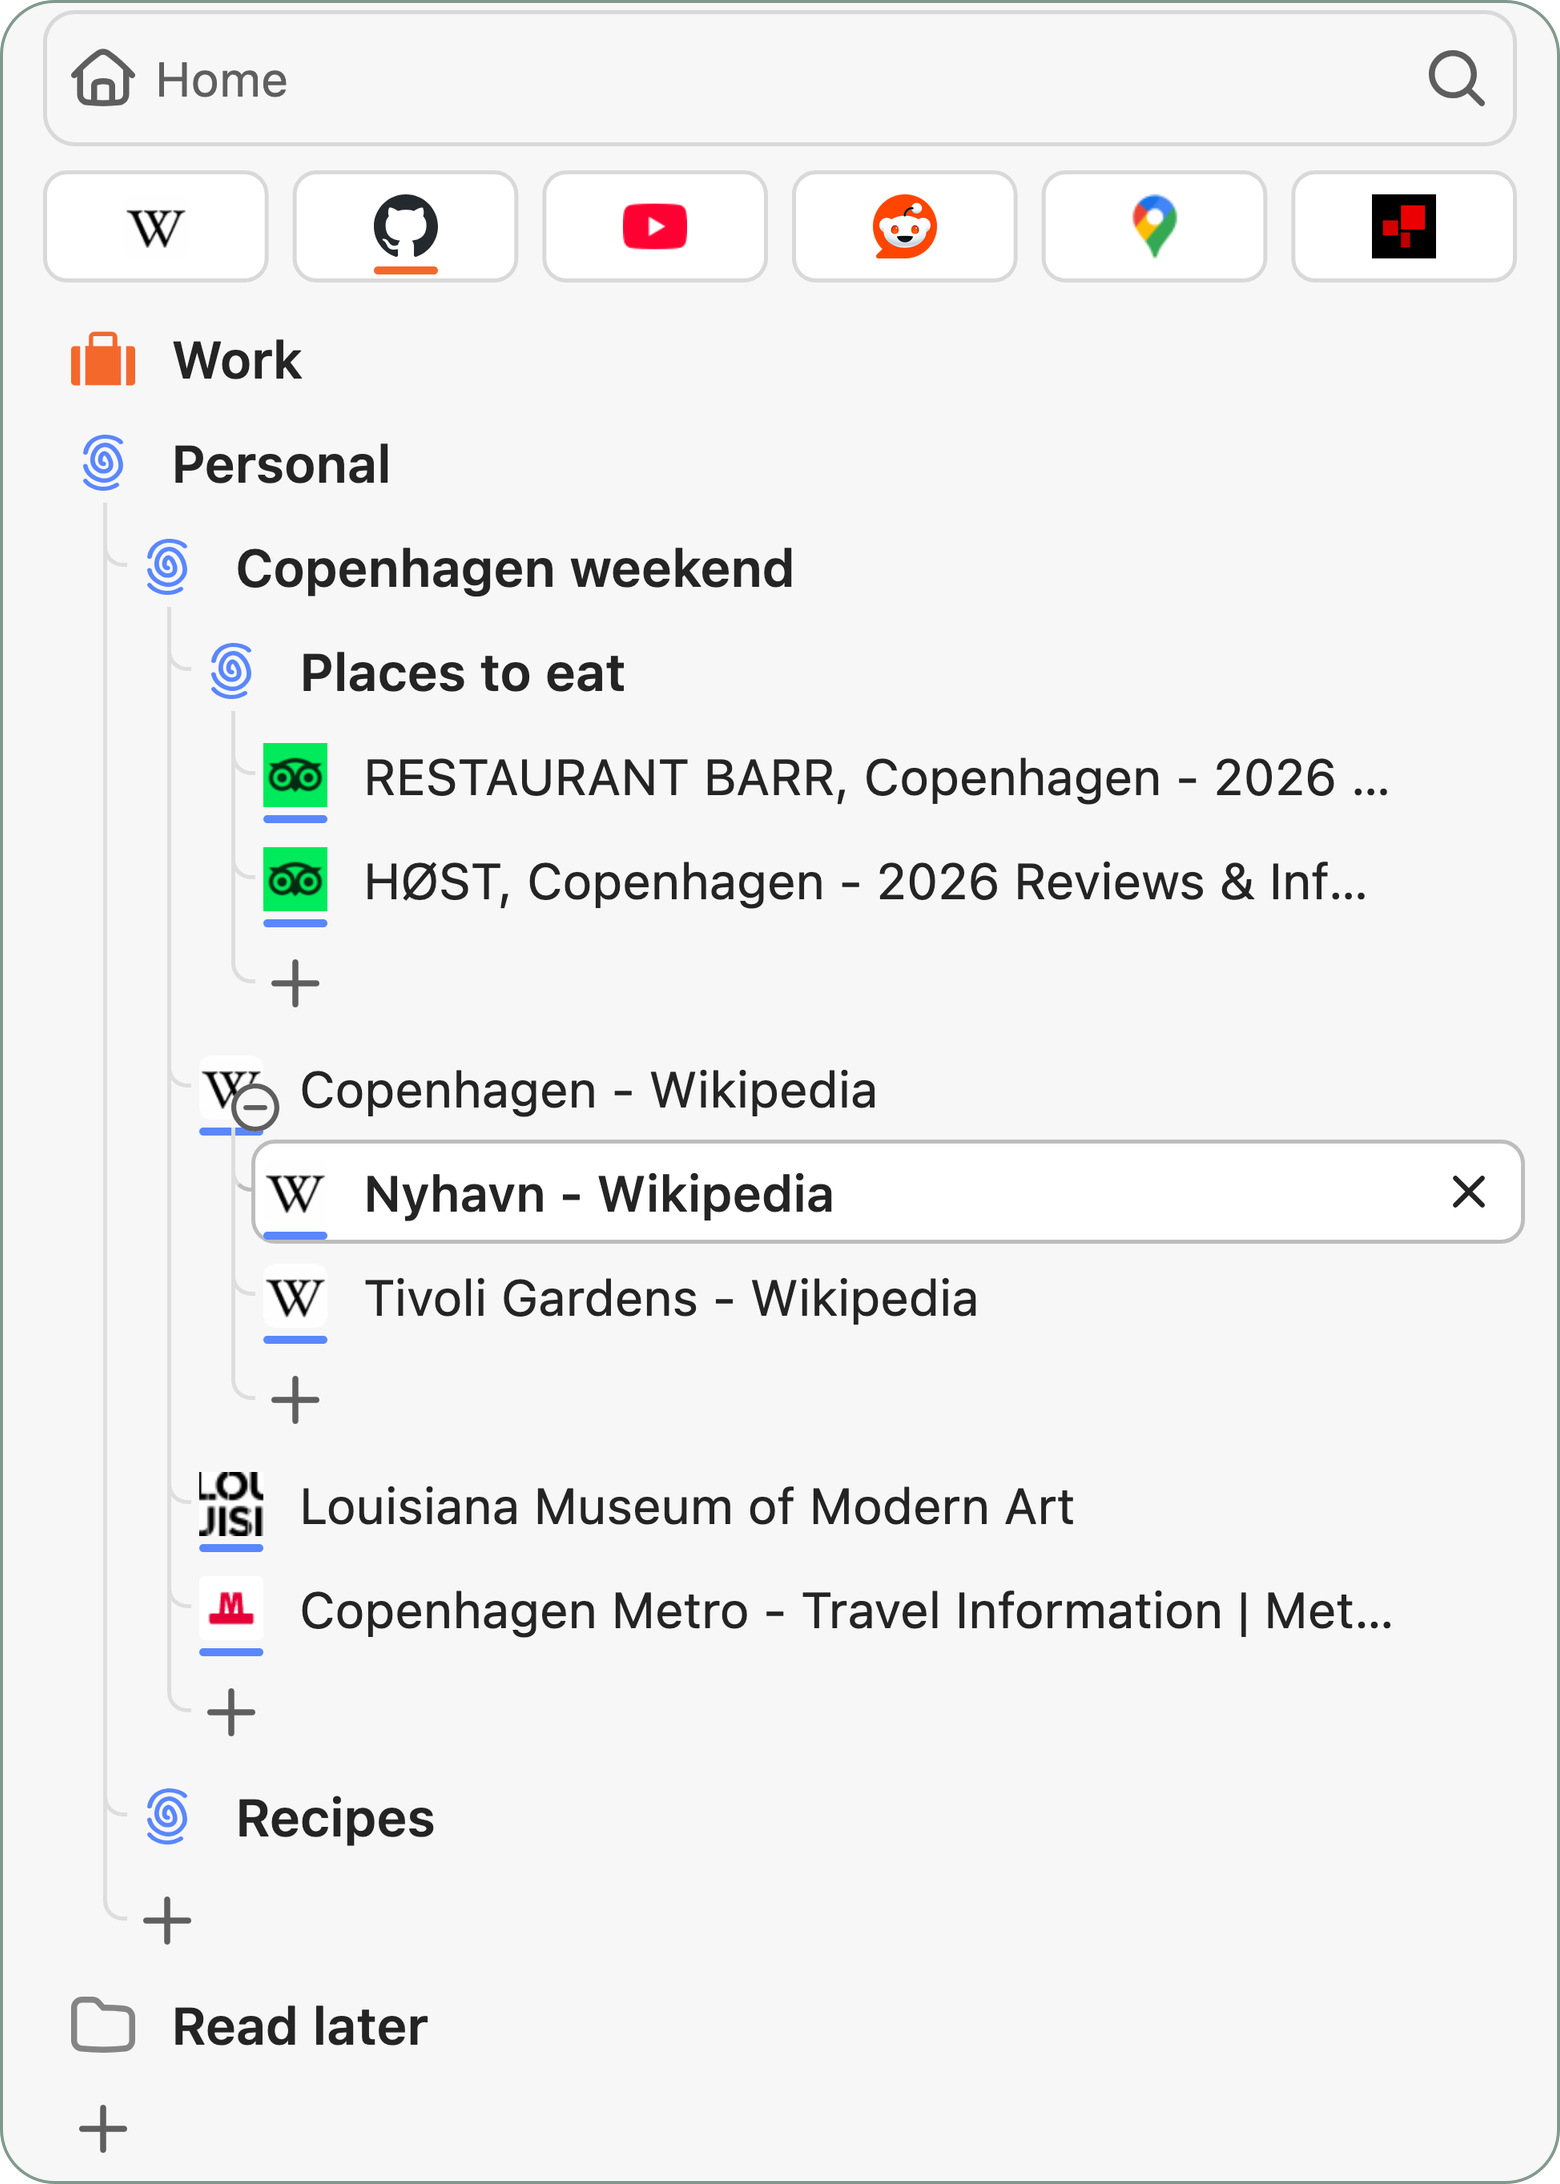
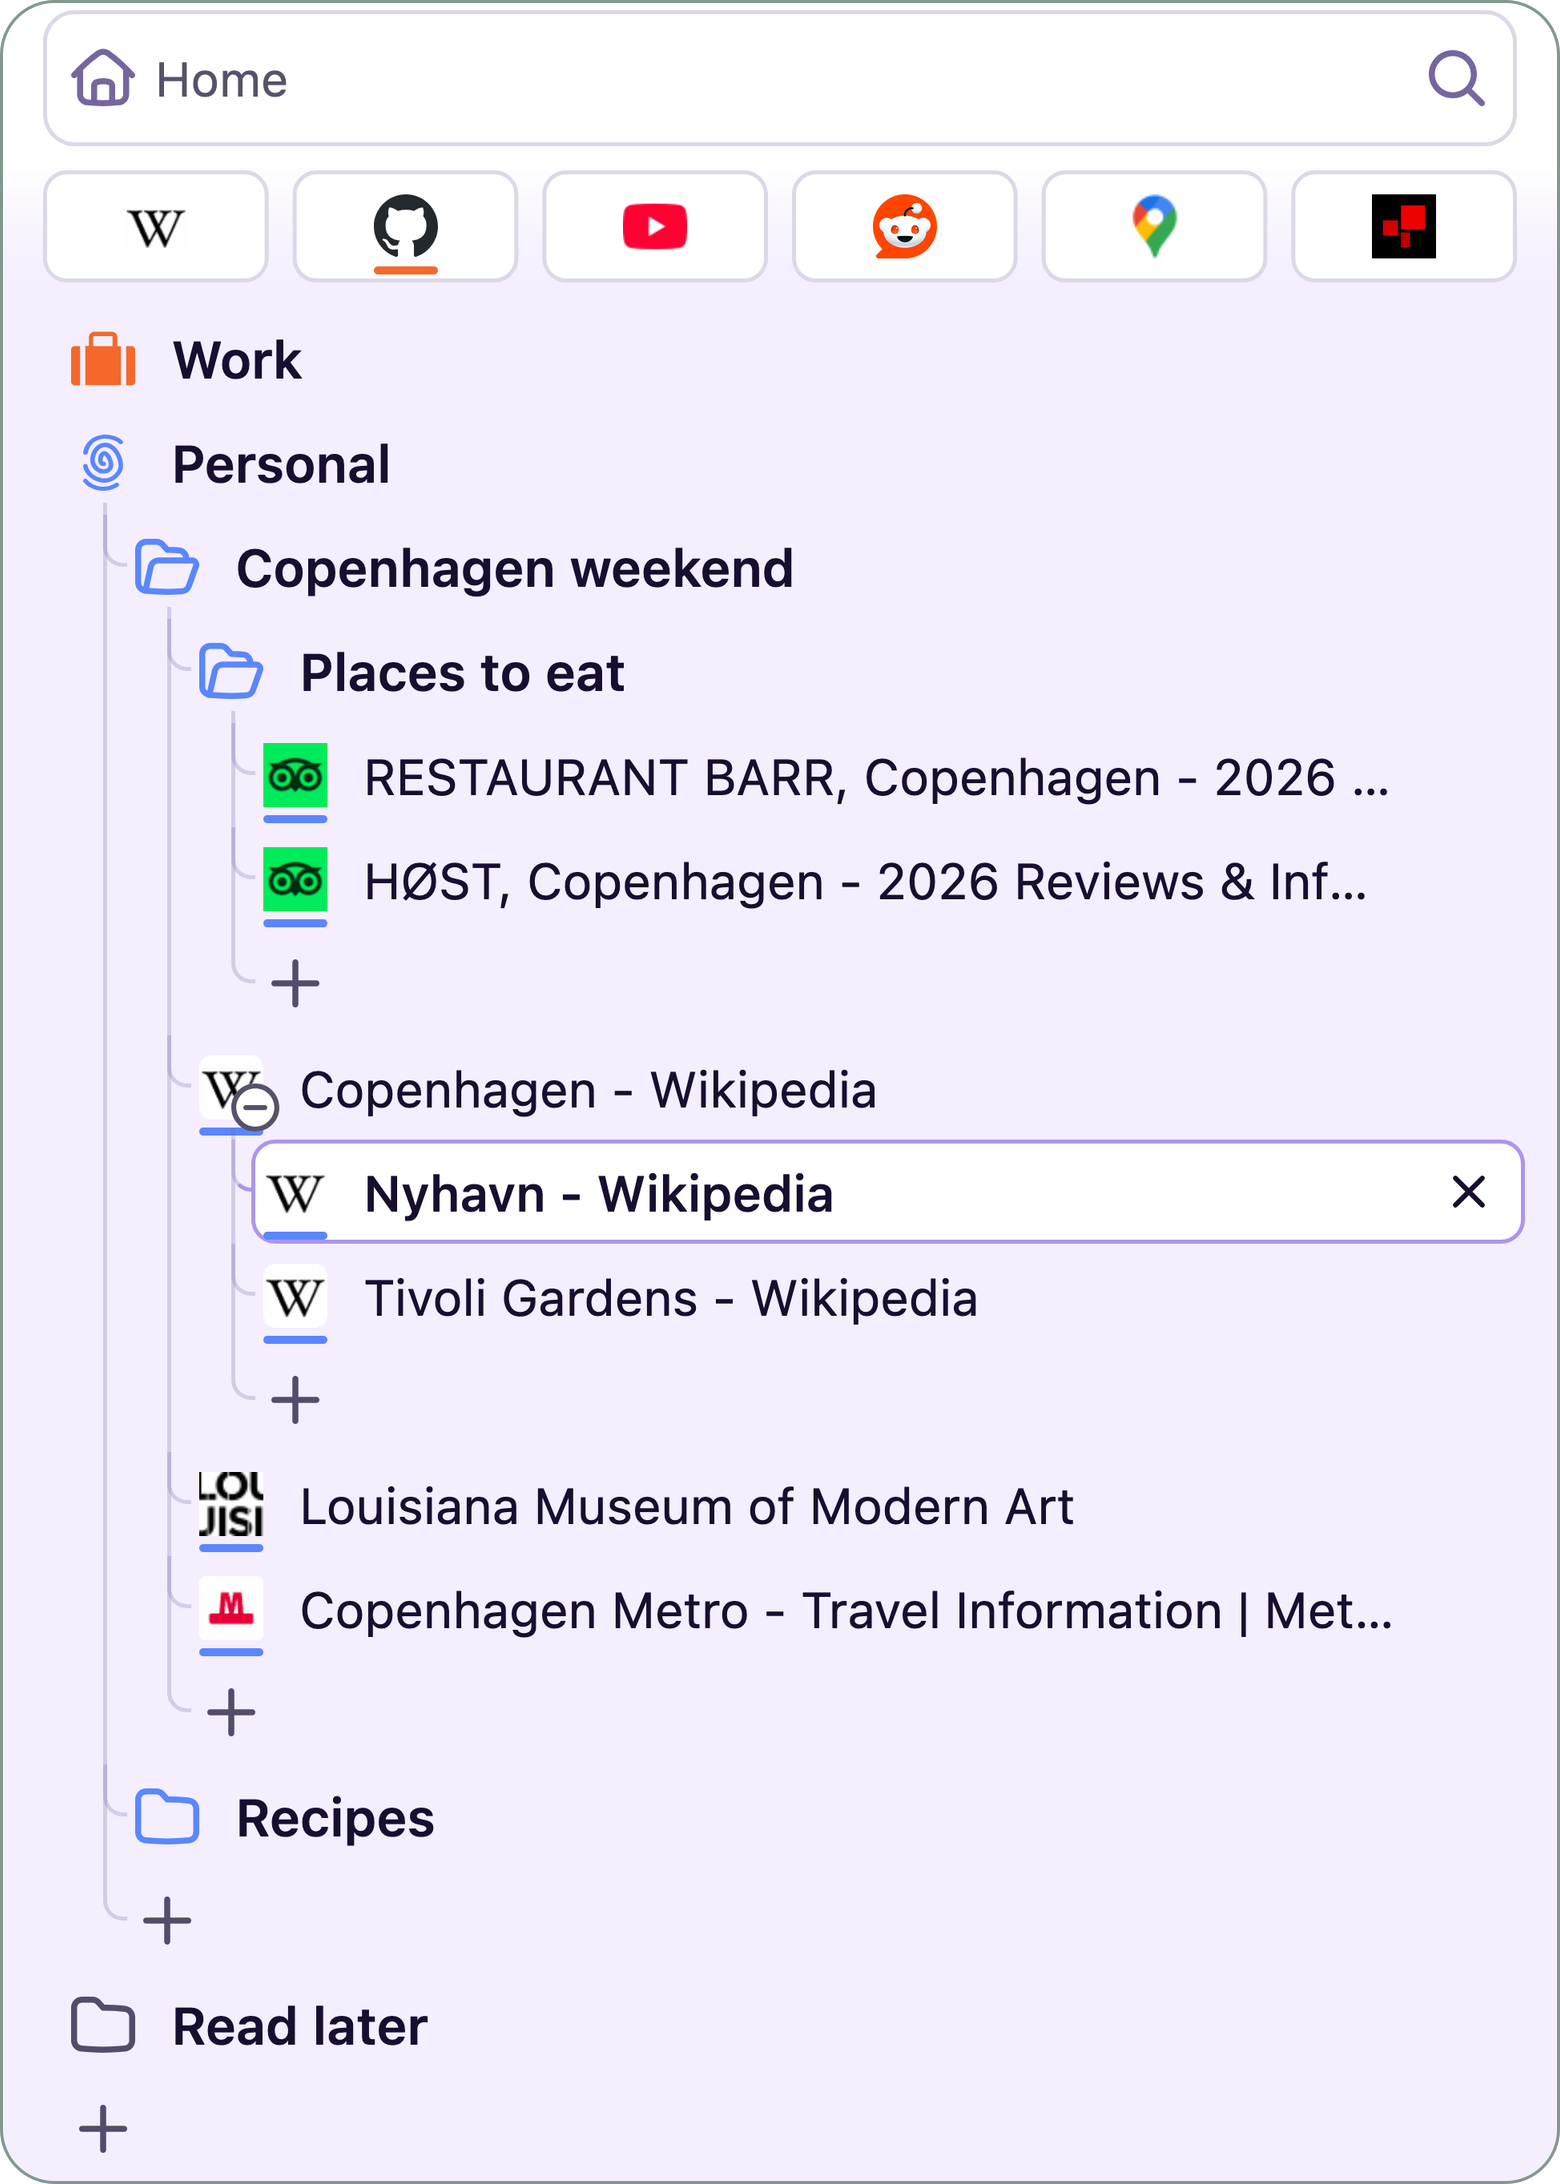
Refresh screenshots and add recent activity

diff --git a/scripts/screenshot-scenes.js b/scripts/screenshot-scenes.js
@@ -98,8 +98,8 @@ export async function setupScreenshotDemo(
     value: {
       connectingLines: true,
       domains: false,
-      themeSource: 'tabernacle',
-      colorScheme: 'light',
+      themeSource: 'firefox',
+      colorScheme: 'default',
     },
   });
   await send('enterGroup', { id: null });
@@ -118,6 +118,7 @@ export async function setupScreenshotDemo(
 
 // Runs in the real extension document through Firefox's in-process DevTools API.
 export async function showScreenshotScene(fixture, session, index) {
+  globalThis.tabernacleScreenshotRestoreActivityTimes?.();
   const shot = fixture.shots[index];
   const windowId = (await browser.windows.getCurrent()).id;
 
@@ -140,6 +141,8 @@ export async function showScreenshotScene(fixture, session, index) {
   };
 
   if (document.querySelector('#dialog').open) document.querySelector('#dialog-cancel').click();
+  if (document.querySelector('#recently-closed-toggle').getAttribute('aria-expanded') === 'true')
+    document.querySelector('#recently-closed-toggle').click();
   if (document.querySelector('#search-toggle').getAttribute('aria-expanded') === 'true')
     document.querySelector('#search-close').click();
   const scopeId = session.groups[shot.scope] || null;
@@ -148,8 +151,8 @@ export async function showScreenshotScene(fixture, session, index) {
     value: {
       connectingLines: true,
       domains: Boolean(shot.domains),
-      themeSource: 'tabernacle',
-      colorScheme: shot.colorScheme,
+      themeSource: 'firefox',
+      colorScheme: 'default',
     },
   });
   const state = await send('snapshot');
@@ -163,6 +166,7 @@ export async function showScreenshotScene(fixture, session, index) {
   await waitFor(
     () =>
       document.querySelector(`[data-key="tab:${session.tabs[fixture.activeTab]}"]`) &&
+      document.documentElement.dataset.firefoxTheme === 'default' &&
       document.documentElement.dataset.colorScheme === shot.colorScheme &&
       Boolean(document.querySelector('#home[aria-current]')) === !scopeId,
     'the sidebar scene',
@@ -189,11 +193,87 @@ export async function showScreenshotScene(fixture, session, index) {
     button.click();
     await waitFor(() => document.querySelector('#dialog').open, 'the folder dialog');
   }
+  if (shot.activity) {
+    // Generate history through real actions in this demo session. Run this scene
+    // after the tree captures, since closed demo tabs stay closed.
+    for (const { kind, key } of shot.activity) {
+      if (kind === 'folder') await send('enterGroup', { id: session.groups[key] });
+      else if (kind === 'viewed') await browser.tabs.update(session.tabs[key], { active: true });
+      else if (kind === 'closed') await browser.tabs.remove(session.tabs[key]);
+      else throw new Error(`Unsupported screenshot activity: ${kind}`);
+      // Keep Firefox session timestamps distinct and their ordering repeatable.
+      await new Promise((resolve) => setTimeout(resolve, 100));
+    }
+    if (shot.activityMinutesAgo) {
+      // Fixture only the ages of these real demo records at the API boundary.
+      // The unchanged popup sorts the records and formats its own time labels.
+      const now = Date.now();
+      const ages = shot.activityMinutesAgo;
+      const timestamp = (kind, key, fallback = 120) =>
+        now - (ages[kind]?.[key] ?? fallback) * 60000;
+      const tabKeys = new Map(Object.entries(session.tabs).map(([key, id]) => [id, key]));
+      const groupKeys = new Map(Object.entries(session.groups).map(([key, id]) => [id, key]));
+      const urlKeys = new Map(fixture.tabs.map(({ key, url }) => [url, key]));
+      const originalSend = browser.runtime.sendMessage;
+      browser.runtime.sendMessage = async (...args) => {
+        const result = await originalSend.apply(browser.runtime, args);
+        const data = result?.ok && result.data;
+        if (data?.tabs && data.view) {
+          for (const tab of data.tabs) tab.lastAccessed = timestamp('viewed', tabKeys.get(tab.id));
+          for (const tab of data.recentlyClosed ?? [])
+            tab.closedAt = timestamp('closed', urlKeys.get(tab.url));
+          for (const folder of data.view.recentFolders ?? [])
+            folder.enteredAt = timestamp('folder', groupKeys.get(folder.id));
+          for (const folder of data.view.recentExpandedFolders ?? [])
+            folder.expandedAt = timestamp('folder', groupKeys.get(folder.id));
+        }
+        return result;
+      };
+      globalThis.tabernacleScreenshotRestoreActivityTimes = () => {
+        browser.runtime.sendMessage = originalSend;
+        delete globalThis.tabernacleScreenshotRestoreActivityTimes;
+      };
+    }
+    document.querySelector('#recently-closed-toggle').click();
+    await waitFor(() => {
+      const rows = [...document.querySelectorAll('.recently-closed-row')].slice(0, 10);
+      return (
+        !document.querySelector('#recently-closed').hidden &&
+        rows.length === 10 &&
+        (!shot.activityMinutesAgo ||
+          new Set(rows.map((row) => row.querySelector('time').textContent)).size >= 4) &&
+        ['viewed', 'closed', 'folder'].every((kind) =>
+          rows.some((row) => row.dataset.kind === kind),
+        )
+      );
+    }, 'viewed tabs, closed tabs and folders in recent activity');
+    document.activeElement.blur();
+  }
   document.querySelector('#tree').scrollTop = 0;
   await document.fonts.ready;
   await Promise.all([...document.querySelectorAll('img')].map((image) => image.decode()));
   await new Promise((resolve) => requestAnimationFrame(() => requestAnimationFrame(resolve)));
-  return { scene: shot.file, width: innerWidth, height: innerHeight };
+  const surface = getComputedStyle(document.querySelector('.sidebar'));
+  return {
+    scene: shot.file,
+    width: innerWidth,
+    height: innerHeight,
+    theme: document.documentElement.dataset.firefoxTheme,
+    colorScheme: document.documentElement.dataset.colorScheme,
+    background: surface.backgroundColor,
+    gradient: surface.backgroundImage,
+    ...(shot.activity
+      ? {
+          activity: [...document.querySelectorAll('.recently-closed-row')]
+            .slice(0, 10)
+            .map((row) => ({
+              kind: row.dataset.kind,
+              title: row.querySelector('.recently-closed-label').textContent,
+              time: row.querySelector('time').textContent,
+            })),
+        }
+      : {}),
+  };
 }
 
 export function measureScreenshotRegion(framing) {

diff --git a/scripts/screenshot-browser.js b/scripts/screenshot-browser.js
@@ -19,9 +19,11 @@ export class ScreenshotBrowser {
     else if (process.platform === 'darwin')
       options.setBinary('/Applications/Firefox.app/Contents/MacOS/firefox');
     options.setPreference('browser.shell.checkDefaultBrowser', false);
+    options.setPreference('browser.nova.enabled', true);
     options.setPreference('browser.startup.page', 0);
     options.setPreference('browser.tabs.warnOnClose', false);
     options.setPreference('ui.prefersReducedMotion', 1);
+    options.setPreference('ui.systemUsesDarkTheme', 0);
     options.setPreference('layout.css.prefers-color-scheme.content-override', 1);
     const binary = process.env.GECKODRIVER_BINARY || (await download('0.37.1'));
     this.log = await open(logPath, 'w');
@@ -95,7 +97,23 @@ export class ScreenshotBrowser {
     await this.evaluate(async () => {
       await document.fonts.ready;
     });
+    this.environment.theme = await this.evaluate(async () => {
+      const active = (await browser.management.getAll()).find(
+        (addon) => addon.type === 'theme' && addon.enabled,
+      );
+      return active ? { id: active.id, name: active.name, version: active.version } : null;
+    });
+    assert.equal(this.environment.theme?.id, 'default-theme@mozilla.org');
     return this.environment;
+  }
+
+  async setColorScheme(scheme) {
+    assert(['light', 'dark'].includes(scheme), 'Unsupported screenshot colour scheme');
+    // The real sidebar follows browser chrome, independently of website colour
+    // preferences. Change only this owned profile's system appearance override.
+    await this.chrome((dark) => {
+      Services.prefs.setIntPref('ui.systemUsesDarkTheme', dark ? 1 : 0);
+    }, scheme === 'dark');
   }
 
   async chrome(fn, ...args) {

diff --git a/scripts/refresh-screenshots.js b/scripts/refresh-screenshots.js
@@ -74,7 +74,7 @@ const sigint = () => interrupt('SIGINT'),
 process.once('SIGINT', sigint);
 process.once('SIGTERM', sigterm);
 const check = () => controller.signal.throwIfAborted();
-const report = { inputDigest: digest, preview: args.includes('--preview'), output };
+const report = { inputDigest: digest, preview: args.includes('--preview'), output, captures: [] };
 
 try {
   console.log('Starting an isolated headless Firefox…');
@@ -116,7 +116,8 @@ try {
     if (captured.has(sourceFile(shot))) continue;
     check();
     console.log(`Capturing ${shot.file}…`);
-    await browser.evaluate(showScreenshotScene, fixture, session, index);
+    await browser.setColorScheme(shot.colorScheme);
+    report.captures.push(await browser.evaluate(showScreenshotScene, fixture, session, index));
     for (const related of resolvedFixture.shots.filter(
       (item) => sourceFile(item) === sourceFile(shot),
     )) {
@@ -171,7 +172,7 @@ try {
   await writeFile(join(output, 'report.json'), JSON.stringify(report, null, 2) + '\n');
   await writeFile('output/screenshots/latest.json', JSON.stringify({ output }, null, 2) + '\n');
   console.log(
-    `${report.preview ? 'Preview ready' : 'Refreshed all 24 screenshot assets'} in ${report.seconds}s.\nPreview: ${join(output, 'contact-sheet.png')}\nCompositions: ${join(output, 'compositions.png')}\nReport: ${join(output, 'report.json')}`,
+    `${report.preview ? 'Preview ready' : `Refreshed all ${screenshotFiles(fixture).length} screenshot assets`} in ${report.seconds}s.\nPreview: ${join(output, 'contact-sheet.png')}\nCompositions: ${join(output, 'compositions.png')}\nReport: ${join(output, 'report.json')}`,
   );
 } catch (error) {
   report.success = false;

diff --git a/test/screenshots.test.js b/test/screenshots.test.js
@@ -81,7 +81,7 @@ test('every demo page has local favicon bytes and an escaped deterministic title
     /<title>RESTAURANT BARR, Copenhagen - 2026 Reviews &amp; Information<\/title>/,
   );
   for (const { data } of responses.values()) assert(data.length > 0);
-  assert.equal(screenshotFiles(fixture).length, 24);
+  assert.equal(screenshotFiles(fixture).length, fixture.shots.length * 4);
   fixture.tabs[0].favicon = '../../LICENSE';
   await assert.rejects(loadScreenshotResponses(fixture, directory), /Invalid favicon path/);
 });

diff --git a/README.md b/README.md
@@ -64,3 +64,9 @@ Pin the sites and folders you use most. Their icons stay visible in every folder
 Drag folder and tab pins into any order. Folder pins, their default actions and their relative order are shared across windows. Each window keeps its own arrangement of folder and tab positions, with tabs following Firefox’s pinned-tab order.
 
 <img src="assets/screenshots/06-pinned-tabs-ui.png" width="602" alt="Pinned sites above the folder path and tabs.">
+
+## Pick up where you left off
+
+Return to viewed tabs and folders. Reopen tabs you’ve closed.
+
+<img src="assets/screenshots/07-recent-activity-ui.png" width="550" alt="Recent activity showing viewed tabs, closed tabs and folders, with filters and a link to the full activity page.">
